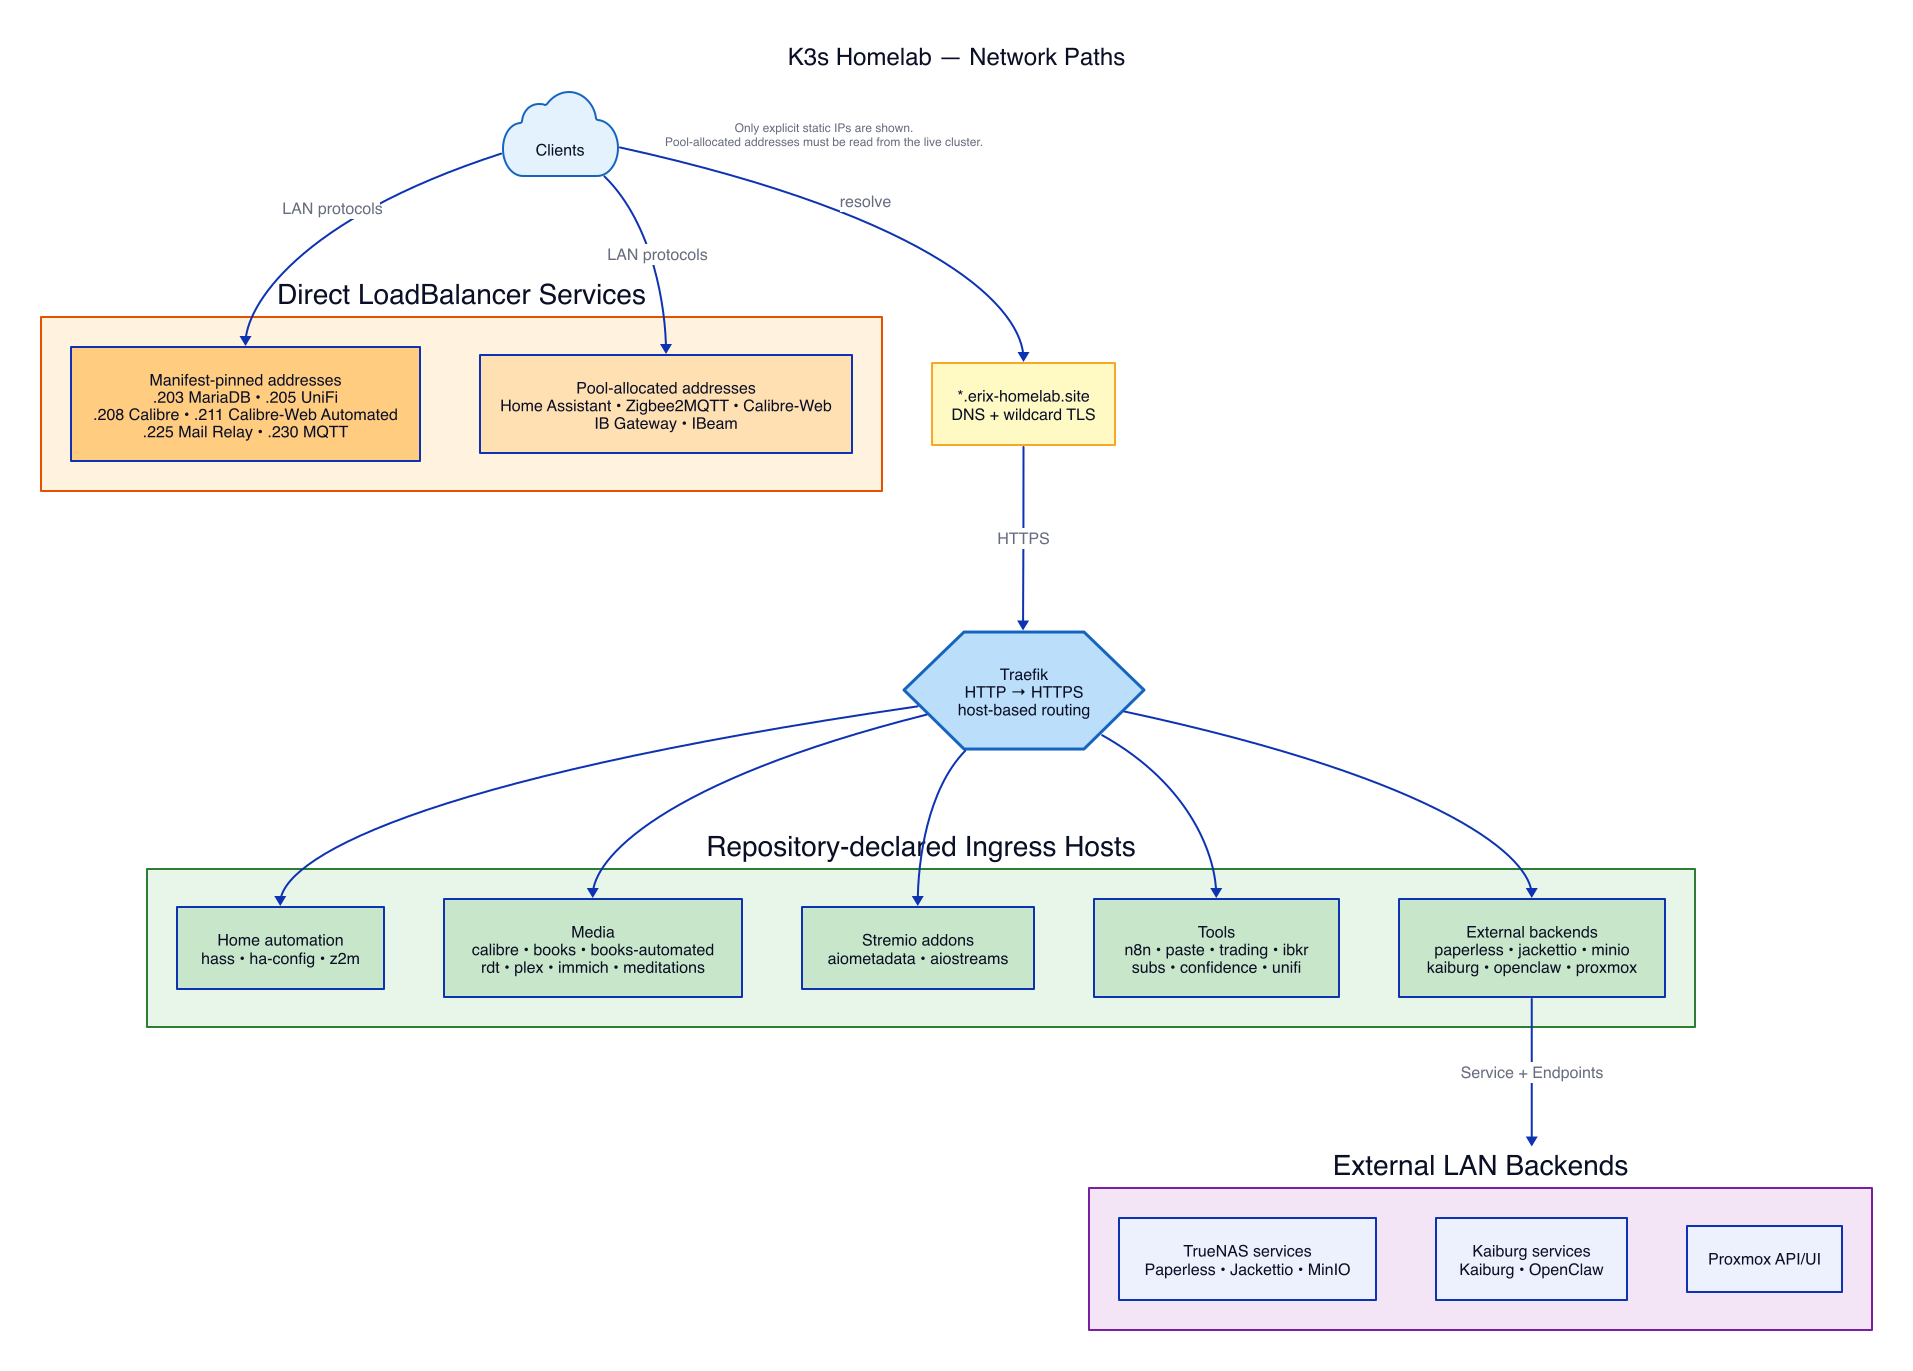
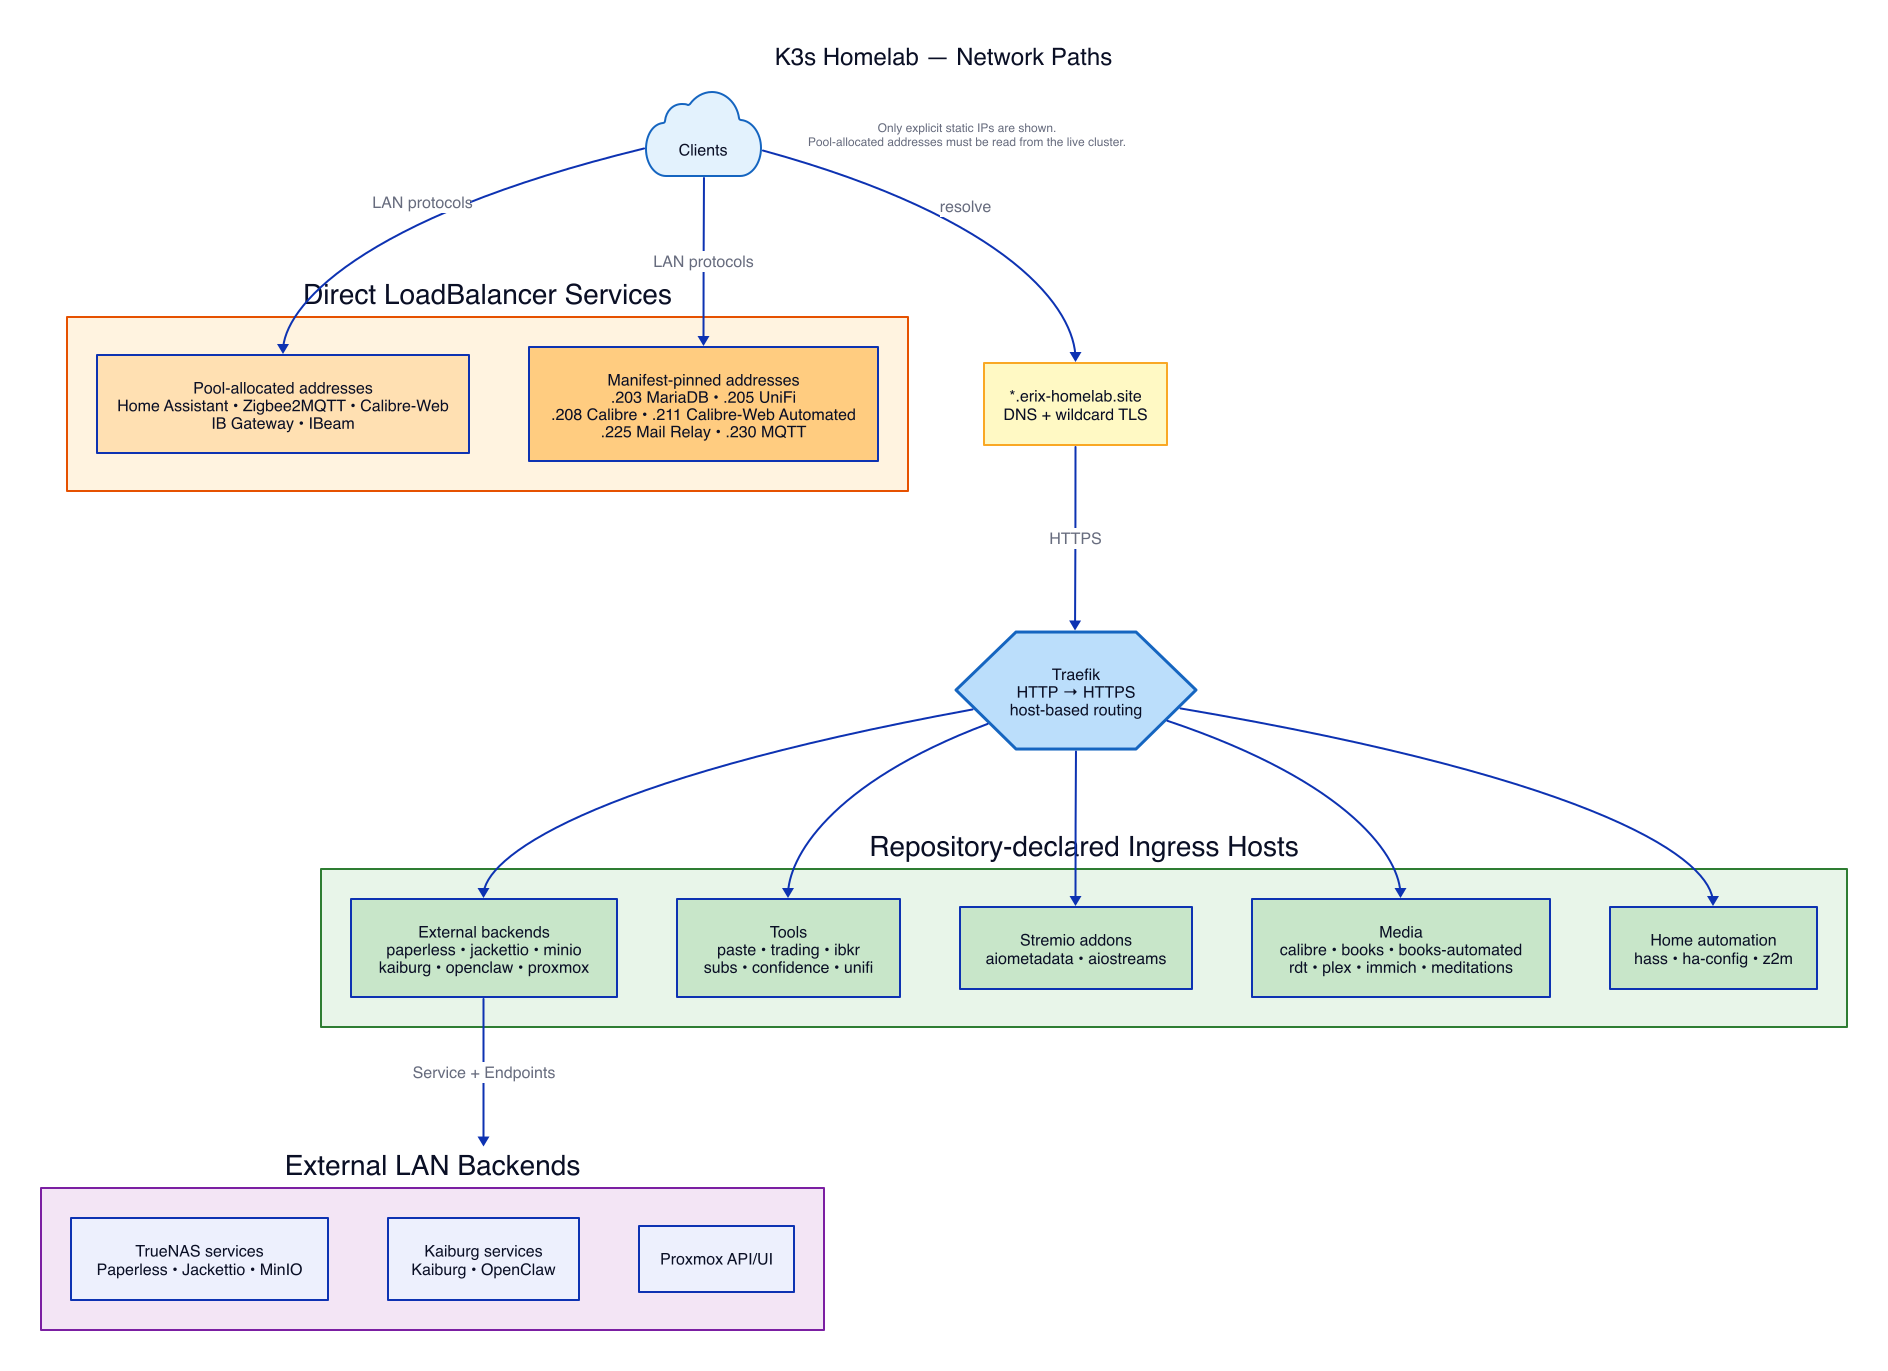
chore: remove n8n (unused)

diff --git a/apps/mail-relay/README.md b/apps/mail-relay/README.md
@@ -41,8 +41,8 @@ Key fields:
 - Optional DKIM material (`DKIM_SELECTOR`, `DKIM_KEY`) if your provider expects
   you to sign mail yourself rather than via their platform.
 - Optional `SMTPD_SASL_USERS`: comma-separated `user:password` pairs that are
-  allowed to run SMTP AUTH against the relay. This is handy for workflows (like
-  n8n) that require credentials even on trusted networks.
+  allowed to run SMTP AUTH against the relay. This is handy for clients
+  that require credentials even on trusted networks.
 
 ## Deploy
 
@@ -63,7 +63,7 @@ Point applications at `mail-relay.default.svc.cluster.local:25` (plain) or
   CIDRs listed in `MYNETWORKS`.
 - If you populate `SMTPD_SASL_USERS`, clients can authenticate with those
   credentials via SMTP AUTH (LOGIN/PLAIN) and you can hand the same username/
-  password to tools such as the n8n Send Email node.
+  password to SMTP clients that support it.
 
 ## DNS and Deliverability
 - Keep your SPF record pointing at the upstream provider, not this relay.

diff --git a/README.md b/README.md
@@ -79,7 +79,7 @@ The active kustomization currently declares these groups:
 | Storage | SSD-backed local-path provisioner |
 | Media | RDT Client, Immich, Plex, Calibre, AIO Metadata, AIOStreams, Movie Night, Meditation Player |
 | Network management | UniFi |
-| Tools and services | n8n, Pastefy, IB Gateway, IBeam, Splitbot, Trading Dashboard, Subscription Tracker, Hello Confidence |
+| Tools and services | Pastefy, IB Gateway, IBeam, Splitbot, Trading Dashboard, Subscription Tracker, Hello Confidence |
 | External endpoints | TrueNAS Paperless, Jackettio and MinIO ingresses; Kaiburg and Proxmox ingresses; Splitbot tunnel |
 
 This is a declaration inventory, not a runtime status list. For the exact and
